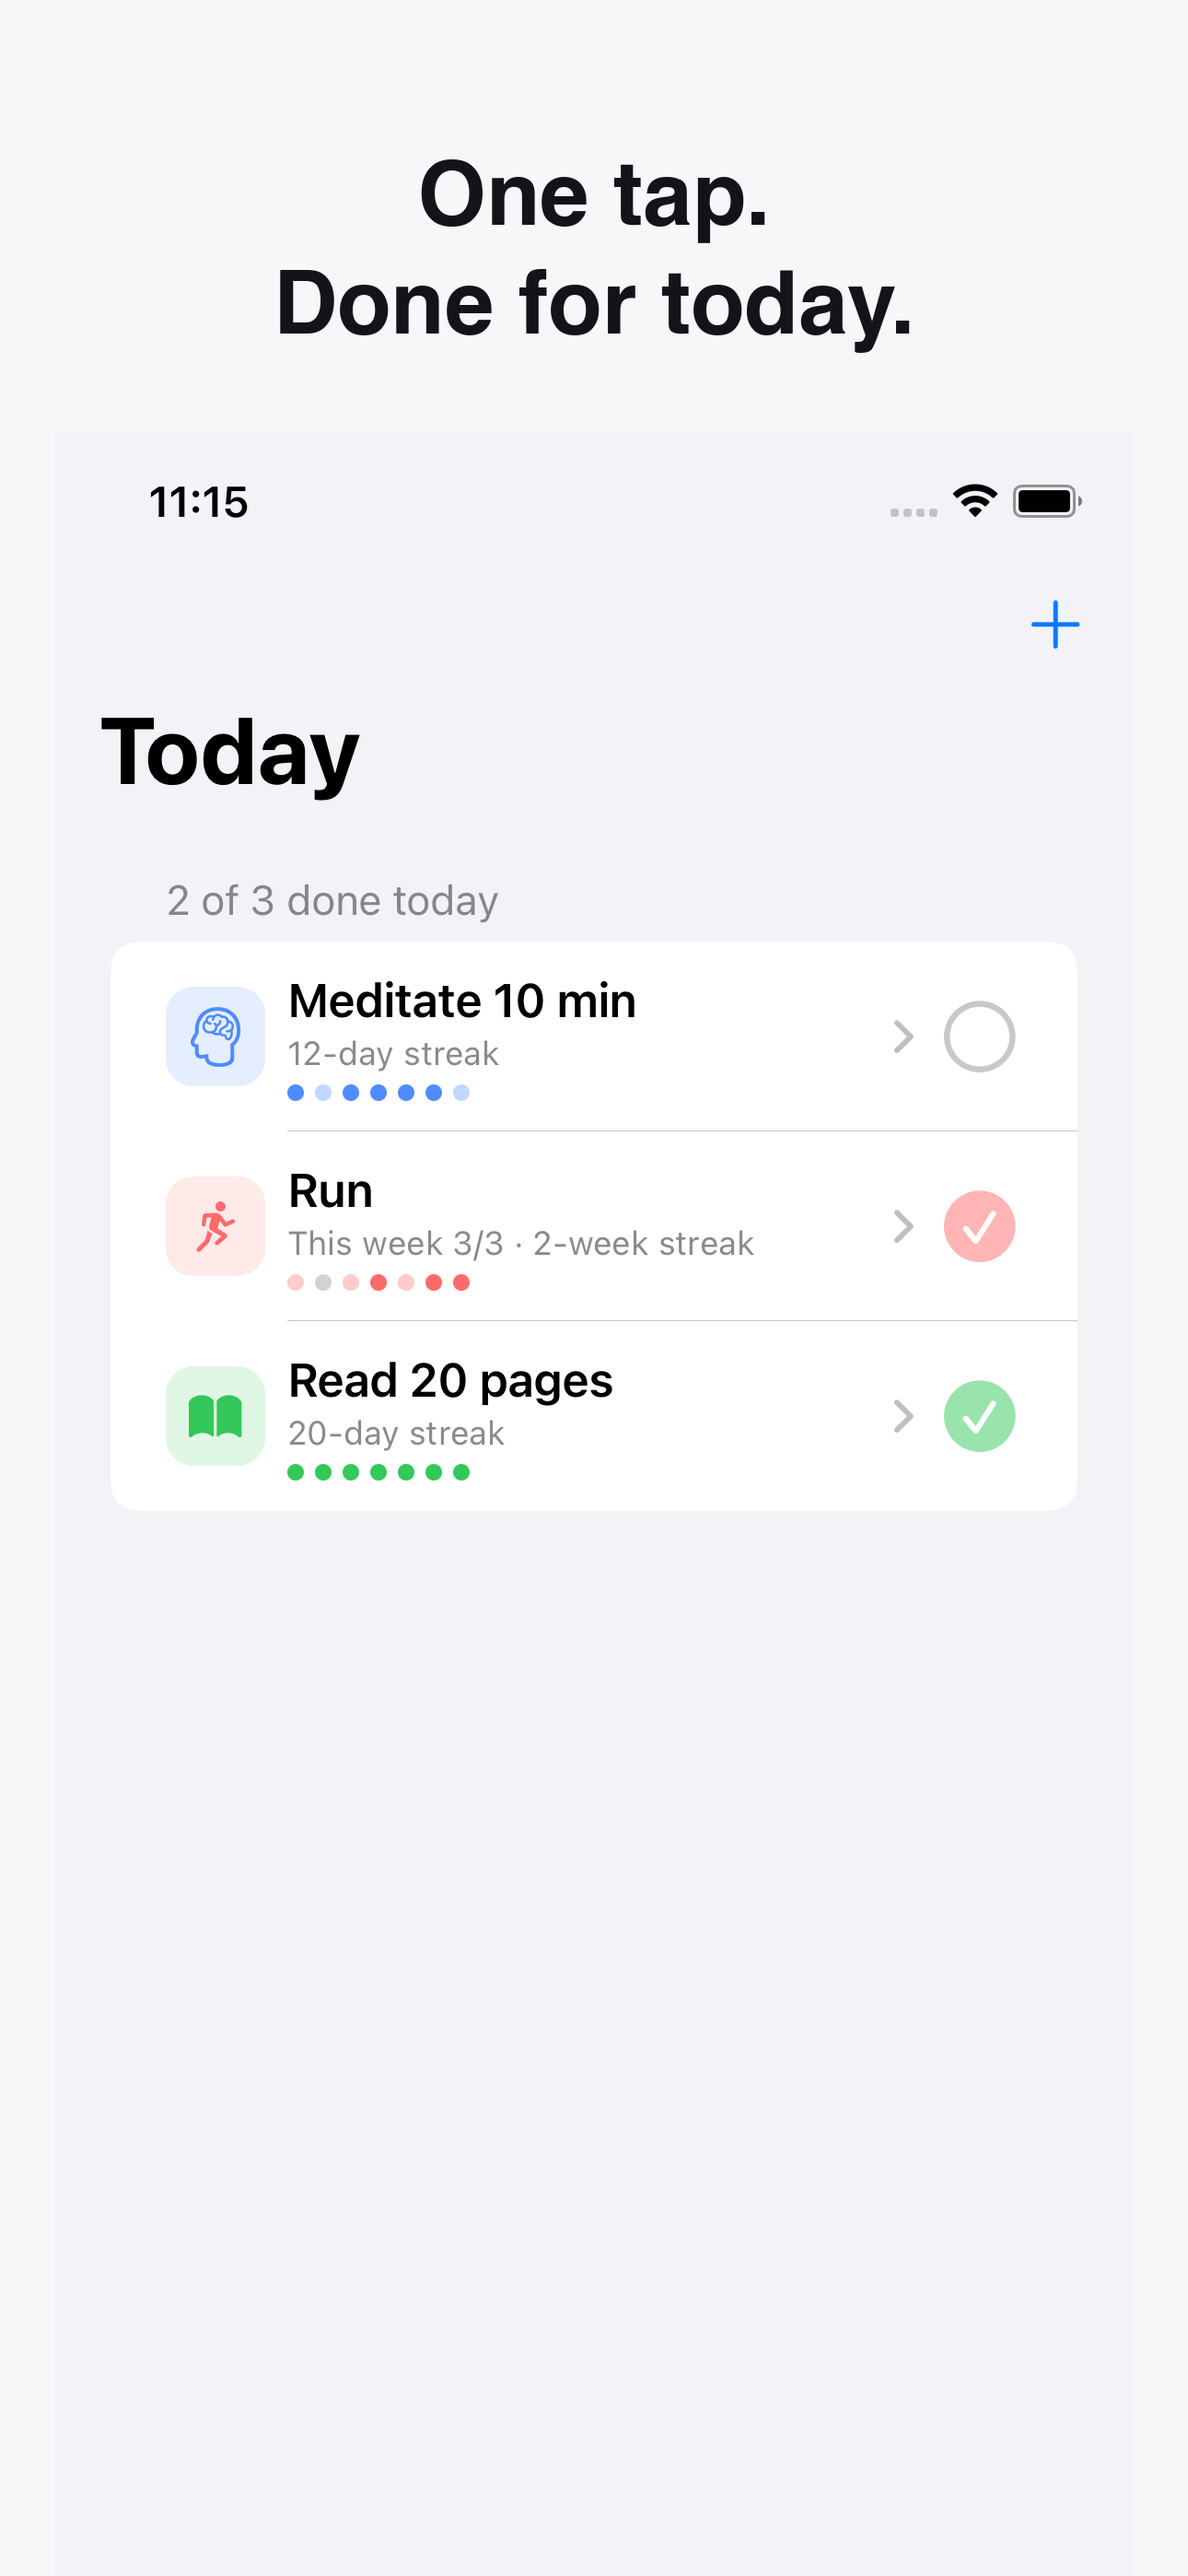
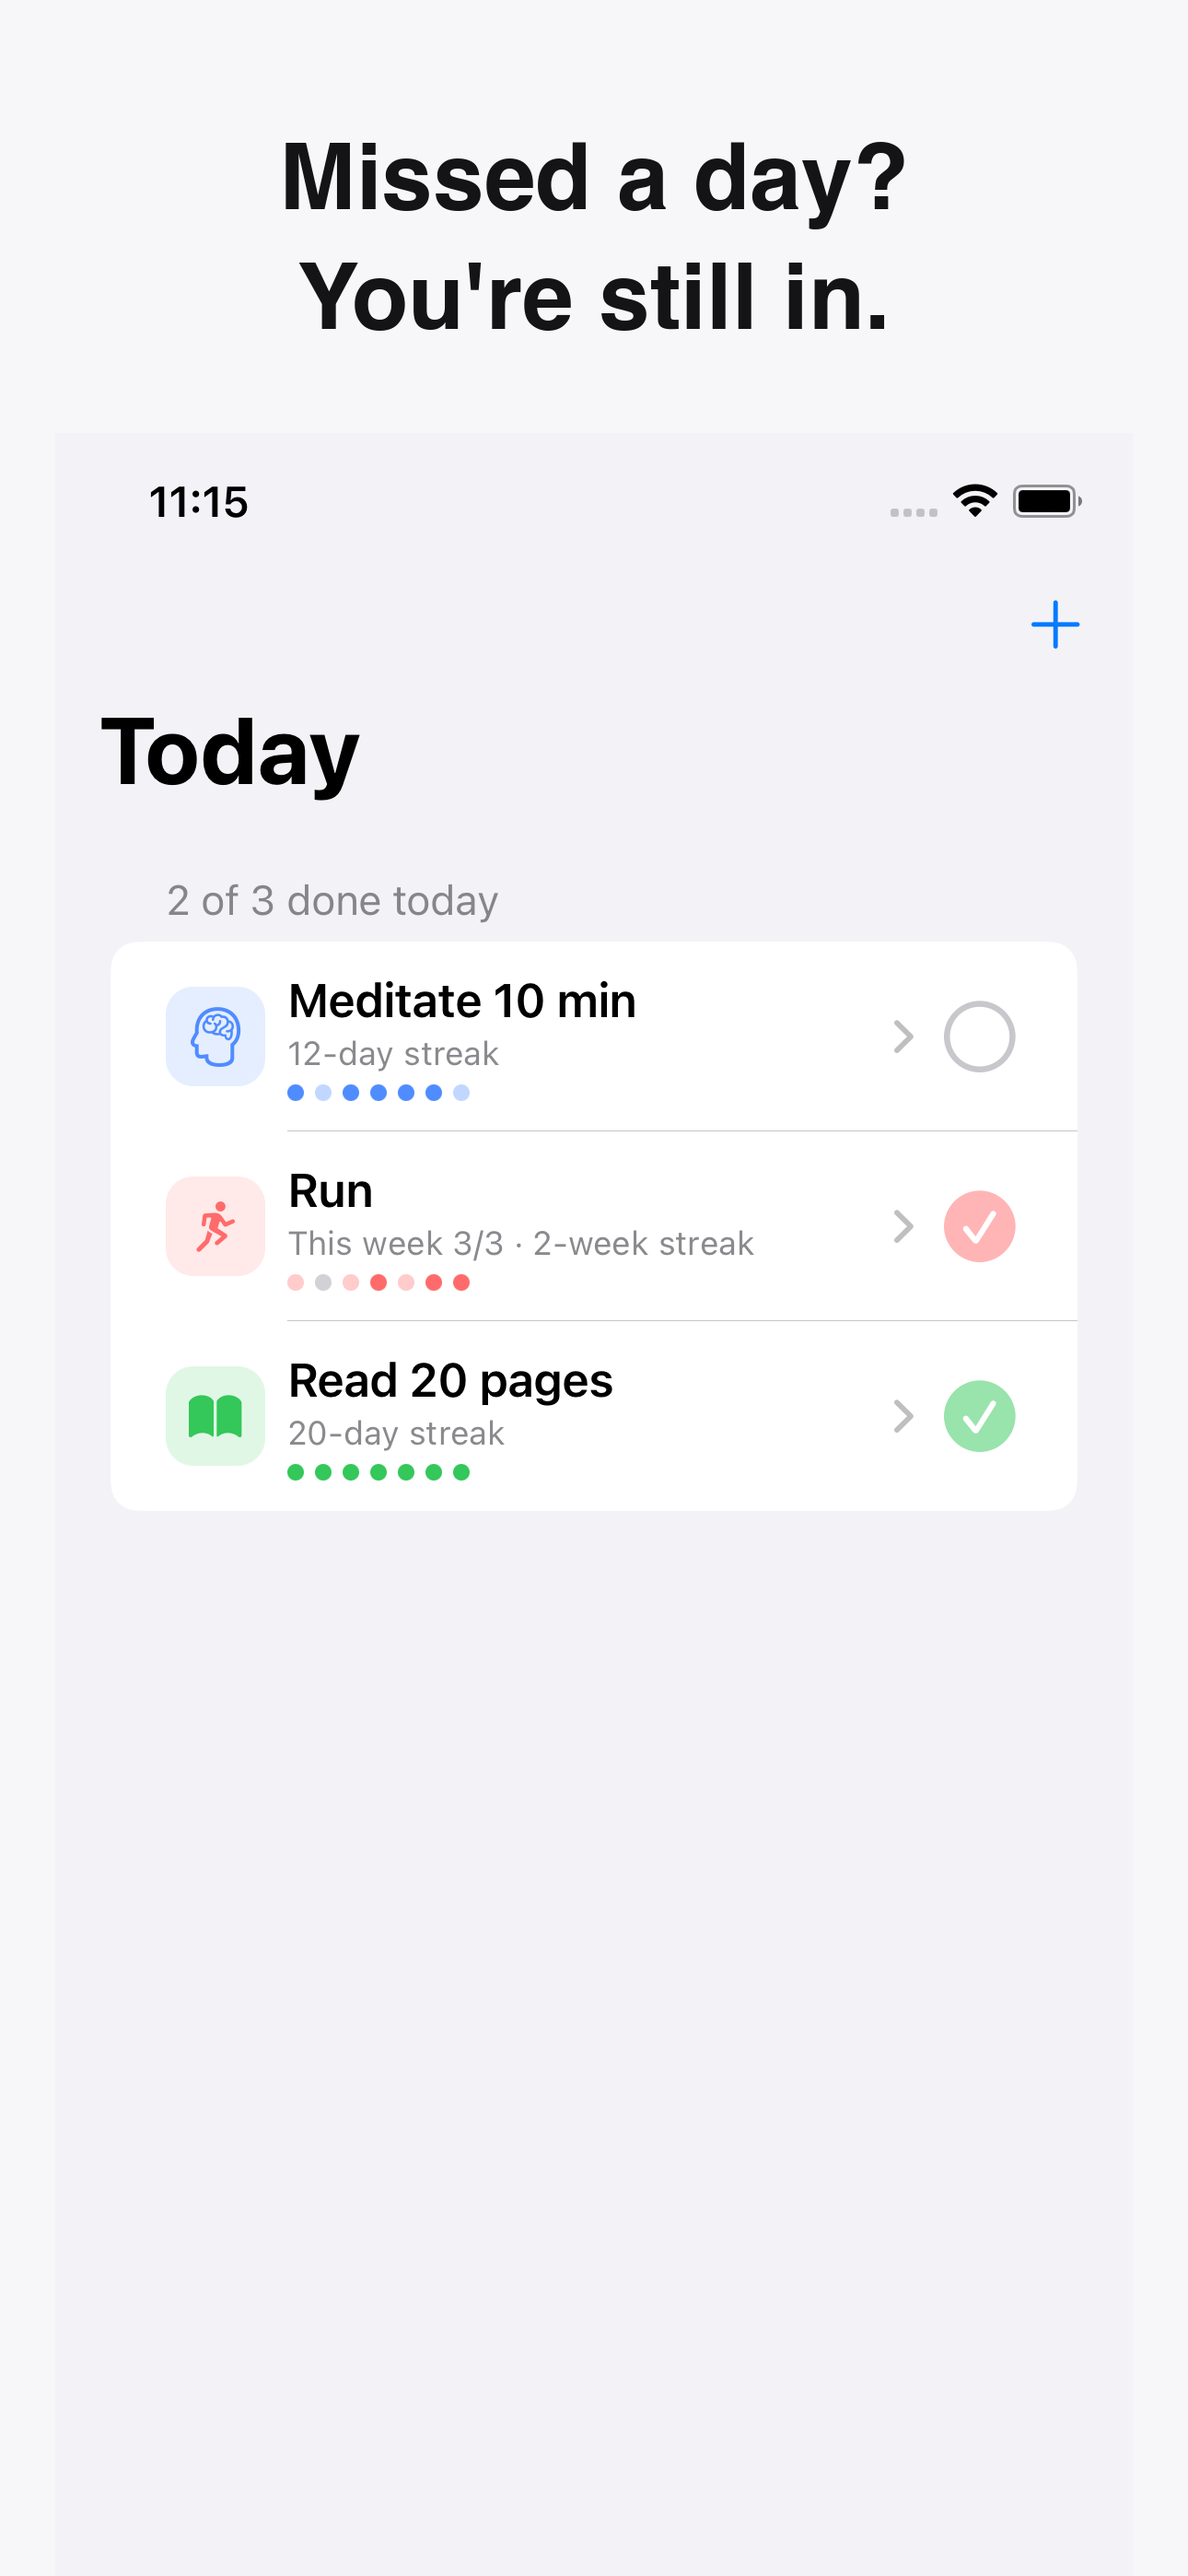
screenshots: 三帧差异化文案改版（采纳 sage 假设）+ compose_asc.py 落盘
- 01_today: Missed a day? You're still in.（首帧即抛差异化）
- 02_detail: Every streak survives. Counted forever.
- 03_paywall 保留 $12.99 once. No subscription.（具体价格过滤强于抽象文案）
- 修正底图 01/02 文件名与内容错位（mv 对调）
- listing.md 配对表同步更新

Changed region(s): [[0.2171, 0.0311, 0.7752, 0.1556]]

diff --git a/tools/compose_asc.py b/tools/compose_asc.py
@@ -1,0 +1,36 @@
+#!/usr/bin/env python3
+"""compose_asc.py — 把 1170x2532 模拟器截图合成 1290x2796 ASC 截图（顶部差异化 caption）。
+
+用法: python3 tools/compose_asc.py <in.png> <out.png> <line1> [line2]
+版式参数量自 2026-09-18 已验收的 appstore/01_today_asc.png。
+"""
+import sys
+from PIL import Image, ImageDraw, ImageFont
+
+W, H = 1290, 2796
+BG = (247, 247, 250)
+FONT = "/System/Library/Fonts/Helvetica.ttc"
+FONT_SIZE = 100          # index 1 = Bold（0=Regular 2=Oblique）
+CAPTION_TOP = 150
+LINE_GAP = 130
+SHOT_X, SHOT_Y = 60, 470
+
+
+def main():
+    src, dst = sys.argv[1], sys.argv[2]
+    lines = [l for l in sys.argv[3:] if l]
+    canvas = Image.new("RGB", (W, H), BG)
+    shot = Image.open(src).convert("RGB")
+    assert shot.size == (1170, 2532), shot.size
+    canvas.paste(shot, (SHOT_X, SHOT_Y))
+    d = ImageDraw.Draw(canvas)
+    font = ImageFont.truetype(FONT, FONT_SIZE, index=1)
+    for i, line in enumerate(lines):
+        w = d.textlength(line, font=font)
+        d.text(((W - w) / 2, CAPTION_TOP + i * LINE_GAP), line, font=font, fill=(20, 20, 22))
+    canvas.save(dst)
+    print("wrote", dst)
+
+
+if __name__ == "__main__":
+    main()

diff --git a/docs/appstore/listing.md b/docs/appstore/listing.md
@@ -49,9 +49,11 @@ Initial release: elastic streaks, yearly heatmap, weekly-frequency habits, gentl
 ## 截图-文案配对建议
 | 截图 | 顶部标题文案（ASO 惯例：截图上加粗短句） |
 |---|---|
-| 01_today | One tap. Done for today. |
-| 02_detail | Miss a day. Keep your streak. |
+| 01_today | Missed a day? You're still in. |
+| 02_detail | Every streak survives. Counted forever. |
 | 03_paywall | $12.99 once. No subscription. |
+
+（2026-09-19 改版：采纳 sage aso-screenshot-paywall-ab 三帧假设——首帧即抛差异化、机制文案>功能文案；03 保留具体价格版，比 "One price" 更过滤。合成脚本 tools/compose_asc.py）
 
 ## ASO 依据（2026-09-18 sage 卡 aso-keyword-strategy-habit 采纳）
 - 关键词前置标题 + 副标题卖点词；"habit tracker" 难度 64 走长尾，差异化词（never miss twice / streak recovery 语义）意图精准
